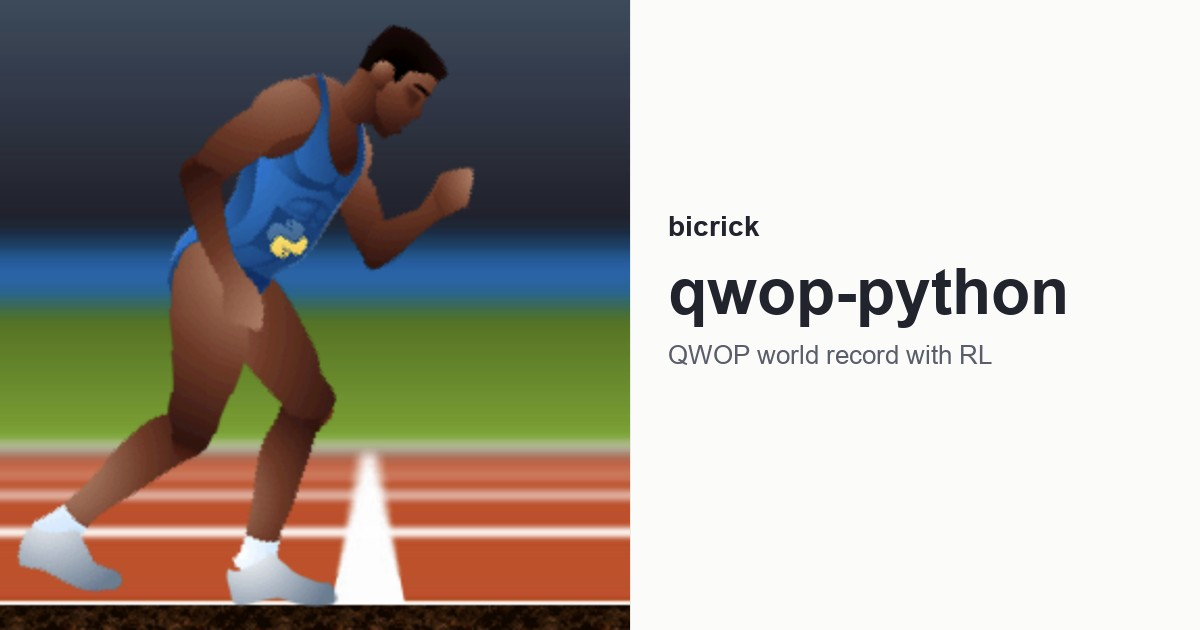
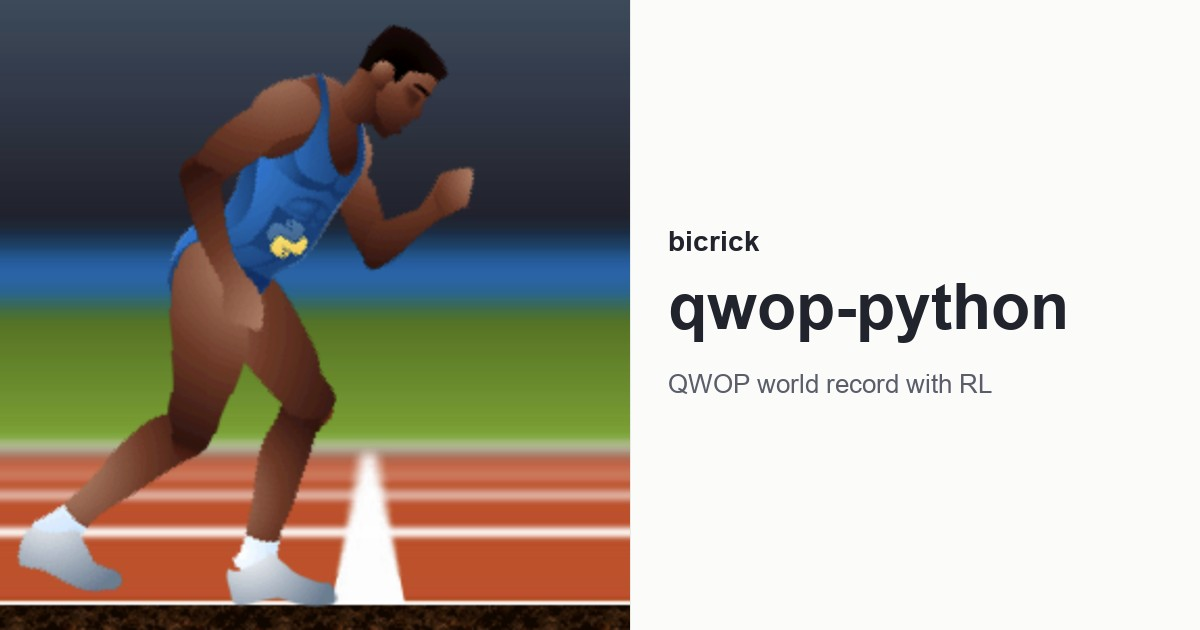
fix: accurate share cards per page and replace Data Engineer II with ML Platform Engineer

Changed region(s): [[0.555, 0.3317, 0.8942, 0.6333]]

diff --git a/public/index.html b/public/index.html
@@ -9,27 +9,27 @@
     <link rel="preconnect" href="https://fonts.gstatic.com" crossorigin />
     <link href="https://fonts.googleapis.com/css2?family=Open+Sans:wght@400;600;700&family=Roboto:wght@400;700&display=swap" rel="stylesheet" />
     <title>bicrick</title>
-    <meta name="title" content="bicrick - Patrick Brown | Data Engineer II" />
-    <meta name="description" content="Patrick Brown. Data Engineer II building agents, RL environments, and data platforms. QWOP world record 45.167s." />
-    <meta name="keywords" content="bicrick, Patrick Brown, Data Engineer II, AI, Agents, Reinforcement Learning, Machine Learning, GCP, AWS, Austin, HEB, UT Austin" />
+    <meta name="title" content="bicrick - Patrick Brown | ML Platform Engineer" />
+    <meta name="description" content="Patrick Brown. ML Platform Engineer building agents, RL environments, and ML platforms. QWOP world record 45.167s." />
+    <meta name="keywords" content="bicrick, Patrick Brown, ML Platform Engineer, AI, Agents, Reinforcement Learning, Machine Learning, GCP, AWS, Austin, HEB, UT Austin" />
     <meta name="author" content="Patrick Brown (bicrick)" />
     <link rel="canonical" href="https://bicrick.com" />
     <meta property="og:type" content="website" />
     <meta property="og:url" content="https://bicrick.com" />
     <meta property="og:title" content="bicrick" />
-    <meta property="og:description" content="Patrick Brown. Data Engineer II building agents, RL environments, and data platforms. QWOP world record 45.167s." />
+    <meta property="og:description" content="Patrick Brown. ML Platform Engineer building agents, RL environments, and ML platforms. QWOP world record 45.167s." />
     <meta property="og:image" content="https://www.bicrick.com/og/home-1200x630.jpg" />
     <meta property="og:image:secure_url" content="https://www.bicrick.com/og/home-1200x630.jpg" />
     <meta property="og:image:width" content="1200" />
     <meta property="og:image:height" content="630" />
-    <meta property="og:image:alt" content="Patrick Brown, Data Engineer II" />
+    <meta property="og:image:alt" content="Patrick Brown, ML Platform Engineer" />
     <meta property="og:site_name" content="bicrick" />
     <meta name="twitter:card" content="summary_large_image" />
     <meta name="twitter:url" content="https://bicrick.com" />
     <meta name="twitter:title" content="bicrick" />
-    <meta name="twitter:description" content="Patrick Brown. Data Engineer II building agents, RL environments, and data platforms. QWOP world record 45.167s." />
+    <meta name="twitter:description" content="Patrick Brown. ML Platform Engineer building agents, RL environments, and ML platforms. QWOP world record 45.167s." />
     <meta name="twitter:image" content="https://www.bicrick.com/og/home-1200x630.jpg" />
-    <meta name="twitter:image:alt" content="Patrick Brown, Data Engineer II" />
+    <meta name="twitter:image:alt" content="Patrick Brown, ML Platform Engineer" />
     <meta name="twitter:creator" content="@patrickbbrown" />
     <script>
       try {

diff --git a/src/projects/AIMasters.js b/src/projects/AIMasters.js
@@ -27,7 +27,7 @@ function AIMasters() {
       </p>
       
       <p>
-        After graduating, I've been working as a data engineer at HEB for two years. I use AI daily, but I wanted to push further. I can work on things in my spare time, but deadlines help. This master's was about staying current, understanding how it all works, and keeping myself accountable.
+        After graduating, I've been working on the ML platform at HEB for two years. I use AI daily, but I wanted to push further. I can work on things in my spare time, but deadlines help. This master's was about staying current, understanding how it all works, and keeping myself accountable.
       </p>
 
       <h2>/ notable projects</h2>

diff --git a/src/components/StructuredData.js b/src/components/StructuredData.js
@@ -10,7 +10,7 @@ function StructuredData() {
     "url": "https://bicrick.com",
     "image": "https://www.bicrick.com/og/home-1200x630.jpg",
     "email": "mailto:patrickbrownai@gmail.com",
-    "jobTitle": "Data Engineer II",
+    "jobTitle": "ML Platform Engineer",
     "worksFor": {
       "@type": "Organization",
       "name": "H-E-B"
@@ -34,7 +34,7 @@ function StructuredData() {
       "https://bicrick.com/contact"
     ],
     "knowsAbout": [
-      "Data Engineering",
+      "ML Platform Engineering",
       "Reinforcement Learning",
       "Agent Evaluation",
       "Machine Learning",

diff --git a/scripts/generate-og-images.py b/scripts/generate-og-images.py
@@ -41,6 +41,8 @@ def cover_crop(img, box):
 def contain_pad(img, box, bg=PAPER):
     tw, th = box
     src = img.convert("RGB")
+    if bg is None:
+        bg = src.getpixel((2, 2))
     sw, sh = src.size
     pad = 48
     scale = min((tw - pad * 2) / sw, (th - pad * 2) / sh)
@@ -65,17 +67,51 @@ def save_jpg(img, name):
     print(f"wrote {path}")
 
 
-def split_card(visual, title, subtitle, name, fit="cover"):
+TEXT_X = 668
+TEXT_W = W - TEXT_X - 40
+
+
+def wrap(draw, text, fnt, width):
+    lines, line = [], ""
+    for word in text.split():
+        trial = f"{line} {word}".strip()
+        if draw.textlength(trial, font=fnt) <= width or not line:
+            line = trial
+        else:
+            lines.append(line)
+            line = word
+    lines.append(line)
+    return lines
+
+
+def split_card(visual, title, subtitle, name, fit="cover", bg=PAPER):
     canvas = Image.new("RGB", (W, H), PAPER)
     src = Image.open(visual)
-    panel = cover_crop(src, (PANEL, H)) if fit == "cover" else contain_pad(src, (PANEL, H))
+    panel = cover_crop(src, (PANEL, H)) if fit == "cover" else contain_pad(src, (PANEL, H), bg)
     canvas.paste(panel, (0, 0))
     draw = ImageDraw.Draw(canvas)
     draw.line((PANEL, 0, PANEL, H), fill=RULE, width=1)
-    x, y = 668, 210
-    draw.text((x, y), "bicrick", font=font(FONT_BOLD, 28), fill=INK)
-    draw.text((x, y + 46), title, font=font(FONT_BOLD, title_size(title)), fill=INK)
-    draw.text((x, y + 130), subtitle, font=font(FONT_REG, 26), fill=MUTED)
+
+    title_font = font(FONT_BOLD, title_size(title))
+    title_lines = [title]
+    if draw.textlength(title, font=title_font) > TEXT_W:
+        title_font = font(FONT_BOLD, 52)
+        title_lines = wrap(draw, title, title_font, TEXT_W)
+    sub_font = font(FONT_REG, 26)
+    sub_lines = wrap(draw, subtitle, sub_font, TEXT_W)
+
+    title_h = int(title_font.size * 1.2)
+    block = 46 + title_h * len(title_lines) + 22 + 36 * len(sub_lines)
+    y = (H - block) // 2
+    draw.text((TEXT_X, y), "bicrick", font=font(FONT_BOLD, 28), fill=INK)
+    ty = y + 46
+    for line in title_lines:
+        draw.text((TEXT_X, ty), line, font=title_font, fill=INK)
+        ty += title_h
+    ty += 22
+    for line in sub_lines:
+        draw.text((TEXT_X, ty), line, font=sub_font, fill=MUTED)
+        ty += 36
     save_jpg(canvas, name)
 
 
@@ -102,7 +138,7 @@ def make_home():
     split_card(
         PUBLIC / "about" / "headshot.jpg",
         "Patrick Brown",
-        "Data Engineer II · Austin, TX",
+        "ML Platform Engineer · Austin, TX",
         "home-1200x630.jpg",
     )
 
@@ -116,7 +152,7 @@ def make_about():
     x, y = 668, 190
     draw.text((x, y), "bicrick", font=font(FONT_BOLD, 28), fill=INK)
     draw.text((x, y + 46), "about", font=font(FONT_BOLD, 64), fill=INK)
-    draw.text((x, y + 130), "Data Engineer II at H-E-B", font=font(FONT_REG, 26), fill=MUTED)
+    draw.text((x, y + 130), "ML Platform Engineer at H-E-B", font=font(FONT_REG, 26), fill=MUTED)
     draw.text((x, 360), "Golf, puzzles, and building\nwith coding agents.", font=font(FONT_REG, 24), fill=MUTED)
     save_jpg(canvas, "about-1200x630.jpg")
 
@@ -138,6 +174,38 @@ def make_contact():
 
 def make_projects():
     center_card("projects", "software by bicrick", "projects-simple-1200x630.jpg")
+
+
+def make_page_cards():
+    center_card(
+        "career",
+        "ML Platform Engineer at H-E-B",
+        "career-1200x630.jpg",
+    )
+    split_card(
+        PUBLIC / "images" / "heb" / "heb-logo.png",
+        "data platform engineering at h-e-b",
+        "10+ teams, 100+ users on one control room",
+        "heb-1200x630.jpg",
+        fit="contain",
+        bg=(255, 255, 255),
+    )
+    split_card(
+        PUBLIC / "images" / "agent-research-loops" / "loop-card.png",
+        "agentic research loops",
+        "An agent that reshapes rewards so the next run avoids the last cheat",
+        "agent-research-loops-1200x630.jpg",
+        fit="contain",
+        bg=None,
+    )
+    split_card(
+        PUBLIC / "images" / "auto-research" / "cart-pole-card.png",
+        "cart-pole-autoresearch",
+        "Agentic loops on cart-pole, from PPO to MPPI",
+        "auto-research-1200x630.jpg",
+        fit="contain",
+        bg=None,
+    )
 
 
 def make_project_cards():
@@ -206,4 +274,5 @@ if __name__ == "__main__":
     make_about()
     make_projects()
     make_contact()
+    make_page_cards()
     make_project_cards()
